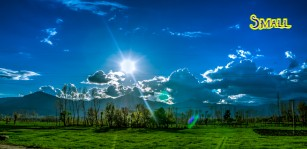
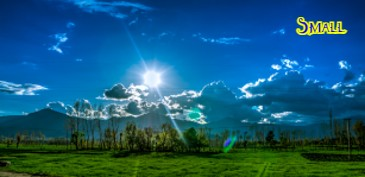
weather overlay

diff --git a/lesson5/css/small.css b/lesson5/css/small.css
@@ -233,7 +233,7 @@ main p, section, article{
 }
 
 
-
+.bannerimg {margin: auto;}
 
 
 /* --------overlay------- */
@@ -241,13 +241,15 @@ main p, section, article{
 .hero-div {
     position: relative;
     display: flex;
+    align-items: flex-start;
+    flex-direction: column;
     justify-content: center;
 }
 .weather-overlay {
-    position: absolute;
     justify-self: left;
     top: .5em;
     left: 3.5em;
+    width: 100%;
     padding: .5em;
     background: radial-gradient(#f1f9f4, #E8EEF1);
     border: 1px solid var(--accent2-color);

diff --git a/lesson5/css/medium.css b/lesson5/css/medium.css
@@ -83,7 +83,9 @@
     }
 
     .weather-overlay {
-        left: 15em;
+        left: 7em;
+        position: absolute;
+        width: 180px;
     }
 
 
